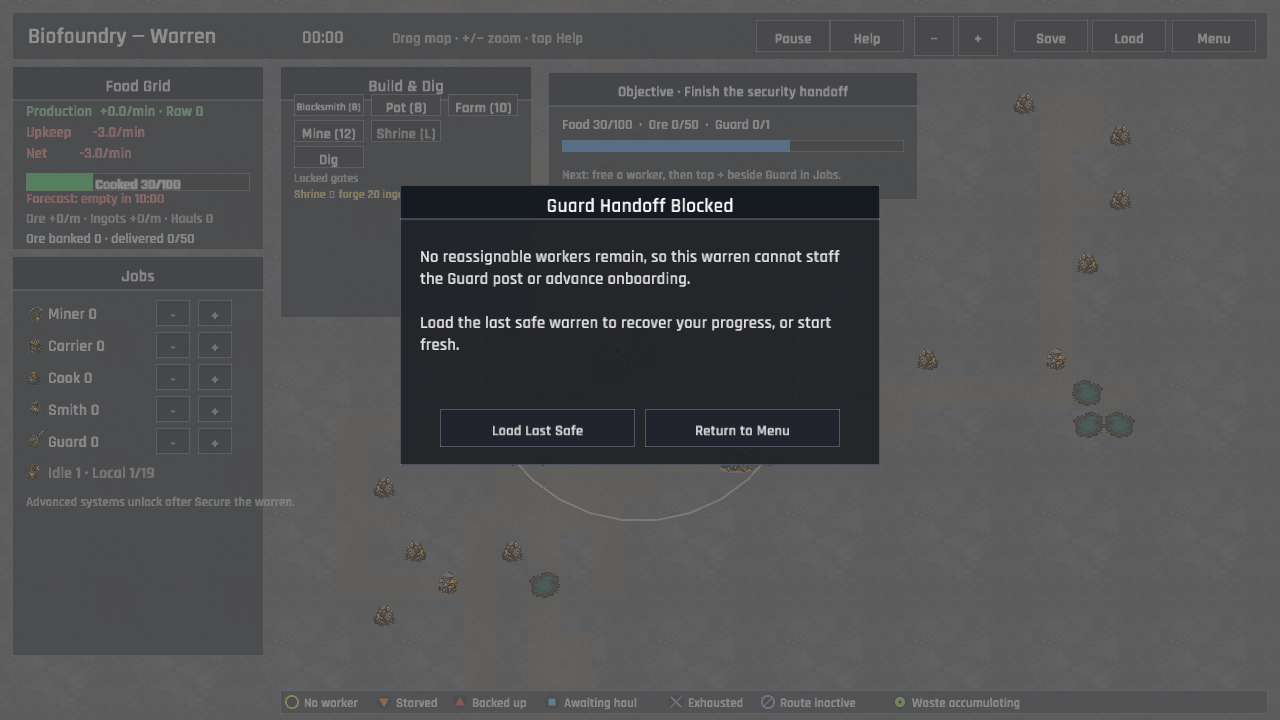
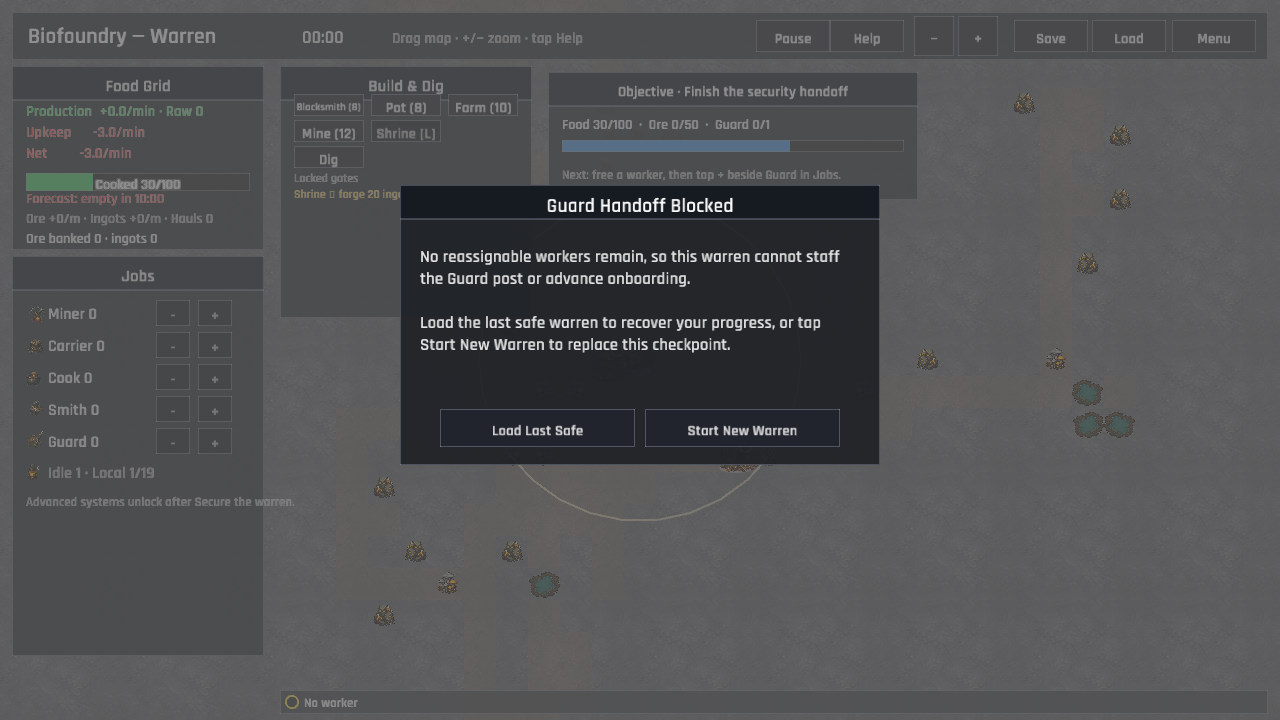
The stranded warren can choose its next life (non-viable recovery)
A non-viable colony with a safe checkpoint could load its last save or leave for the menu, but it could not restart directly from the recovery surface even though the playable-slice contract calls for an explicit restart/load choice. Saved failures now offer Load Last Safe beside Start New Warren, with copy that makes replacing the checkpoint deliberate; failures without a save retain Start New Warren and Return to Menu.

The action mapping is covered for both save states, the security-stuck capture was refreshed, the candidate ledger records the direct restart path, and the 504-test suite, clippy, focused 800x450 release touch audit, and no-parameter Preview publish pass.

diff --git a/src/ui/hud/overlays.rs b/src/ui/hud/overlays.rs
@@ -110,16 +110,8 @@ pub(super) fn draw_colony_failure_overlay(
         dark::TEXT,
     );
 
-    let primary_action = if save_exists {
-        UiAction::Load
-    } else {
-        UiAction::StartWarren
-    };
-    let primary_label = if save_exists {
-        "Load Last Safe"
-    } else {
-        "Start New Warren"
-    };
+    let ((primary_action, primary_label), (secondary_action, secondary_label)) =
+        colony_failure_actions(save_exists);
     if hud_button(
         Rect::new(panel.x + 40.0, panel.bottom() - 56.0, 195.0, 38.0),
         primary_label,
@@ -130,11 +122,27 @@ pub(super) fn draw_colony_failure_overlay(
     }
     if hud_button(
         Rect::new(panel.x + 245.0, panel.bottom() - 56.0, 195.0, 38.0),
-        "Return to Menu",
+        secondary_label,
         true,
         mouse,
     ) {
-        actions.push(UiAction::BackToMenu);
+        actions.push(secondary_action);
+    }
+}
+
+fn colony_failure_actions(
+    save_exists: bool,
+) -> ((UiAction, &'static str), (UiAction, &'static str)) {
+    if save_exists {
+        (
+            (UiAction::Load, "Load Last Safe"),
+            (UiAction::StartWarren, "Start New Warren"),
+        )
+    } else {
+        (
+            (UiAction::StartWarren, "Start New Warren"),
+            (UiAction::BackToMenu, "Return to Menu"),
+        )
     }
 }
 
@@ -148,13 +156,13 @@ fn colony_failure_title(failure: ColonyFailure) -> &'static str {
 fn colony_failure_body(failure: ColonyFailure, save_exists: bool) -> &'static str {
     match (failure, save_exists) {
         (ColonyFailure::Silent, true) => {
-            "No creatures remain, so this warren cannot produce food or advance the campaign.\n\nLoad the last safe warren to recover your progress, or start fresh."
+            "No creatures remain, so this warren cannot produce food or advance the campaign.\n\nLoad the last safe warren to recover your progress, or tap Start New Warren to replace this checkpoint."
         }
         (ColonyFailure::Silent, false) => {
             "No creatures remain, so this warren cannot produce food or advance the campaign.\n\nStart a new warren to begin again."
         }
         (ColonyFailure::GuardHandoff, true) => {
-            "No reassignable workers remain, so this warren cannot staff the Guard post or advance onboarding.\n\nLoad the last safe warren to recover your progress, or start fresh."
+            "No reassignable workers remain, so this warren cannot staff the Guard post or advance onboarding.\n\nLoad the last safe warren to recover your progress, or tap Start New Warren to replace this checkpoint."
         }
         (ColonyFailure::GuardHandoff, false) => {
             "No reassignable workers remain, so this warren cannot staff the Guard post or advance onboarding.\n\nStart a new warren to begin again."

diff --git a/src/ui/hud/overlays/tests.rs b/src/ui/hud/overlays/tests.rs
@@ -29,6 +29,31 @@ fn recovery_guide_keeps_specialists_out_of_disabled_recovery_steps() {
 }
 
 #[test]
+fn saved_failure_offers_load_or_direct_restart() {
+    let ((load_action, load_label), (restart_action, restart_label)) = colony_failure_actions(true);
+
+    assert_eq!(load_action, UiAction::Load);
+    assert_eq!(load_label, "Load Last Safe");
+    assert_eq!(restart_action, UiAction::StartWarren);
+    assert_eq!(restart_label, "Start New Warren");
+    assert!(colony_failure_body(ColonyFailure::Silent, true).contains("tap Start New Warren"));
+    assert!(
+        colony_failure_body(ColonyFailure::GuardHandoff, true).contains("replace this checkpoint")
+    );
+}
+
+#[test]
+fn failure_without_a_save_keeps_new_warren_and_menu_choices() {
+    let ((restart_action, restart_label), (menu_action, menu_label)) =
+        colony_failure_actions(false);
+
+    assert_eq!(restart_action, UiAction::StartWarren);
+    assert_eq!(restart_label, "Start New Warren");
+    assert_eq!(menu_action, UiAction::BackToMenu);
+    assert_eq!(menu_label, "Return to Menu");
+}
+
+#[test]
 fn field_guide_explains_breeding_specialists() {
     assert!(INSPECT_HELP_BODY.contains("Breeding Pit"));
     assert!(INSPECT_HELP_BODY.contains("after onboarding"));

diff --git a/docs/phase-one/CANDIDATE_VERIFICATION.md b/docs/phase-one/CANDIDATE_VERIFICATION.md
@@ -103,7 +103,7 @@ automated simulation results into first-time-player evidence.
 ## Automated candidate checks
 
 - `cargo fmt -- --check` — pass.
-- `cargo test --all-targets` — 502 unit tests and 2 integration/code-standard
+- `cargo test --all-targets` — 504 unit tests and 2 integration/code-standard
   targets pass,
   including fresh/simulated/remote-transit valid sessions, modal route
   planning, rejected malformed save shapes, and event-history save/load
@@ -865,8 +865,10 @@ automated simulation results into first-time-player evidence.
 - Non-viable security recovery — [ui_security_stuck.png](../verification/ui_security_stuck.png)
   shows the dedicated `Guard Handoff Blocked` recovery state when only
   non-reassignable specialists remain after the reserve threshold, with
-  visible Load Last Safe and Return to Menu actions. Awakened specialist
-  warrens are explicitly excluded from this failure state. Manual Save,
+  visible Load Last Safe and Start New Warren actions when a safe checkpoint
+  exists. A fresh failure without a checkpoint keeps Start New Warren and
+  Return to Menu available. Awakened specialist warrens are explicitly
+  excluded from this failure state. Manual Save,
   milestone autosave, and viable-run Menu exit all refuse to overwrite the
   earlier checkpoint while this recovery state is active.
 - Security threshold notice — the live threshold toast now follows the same
